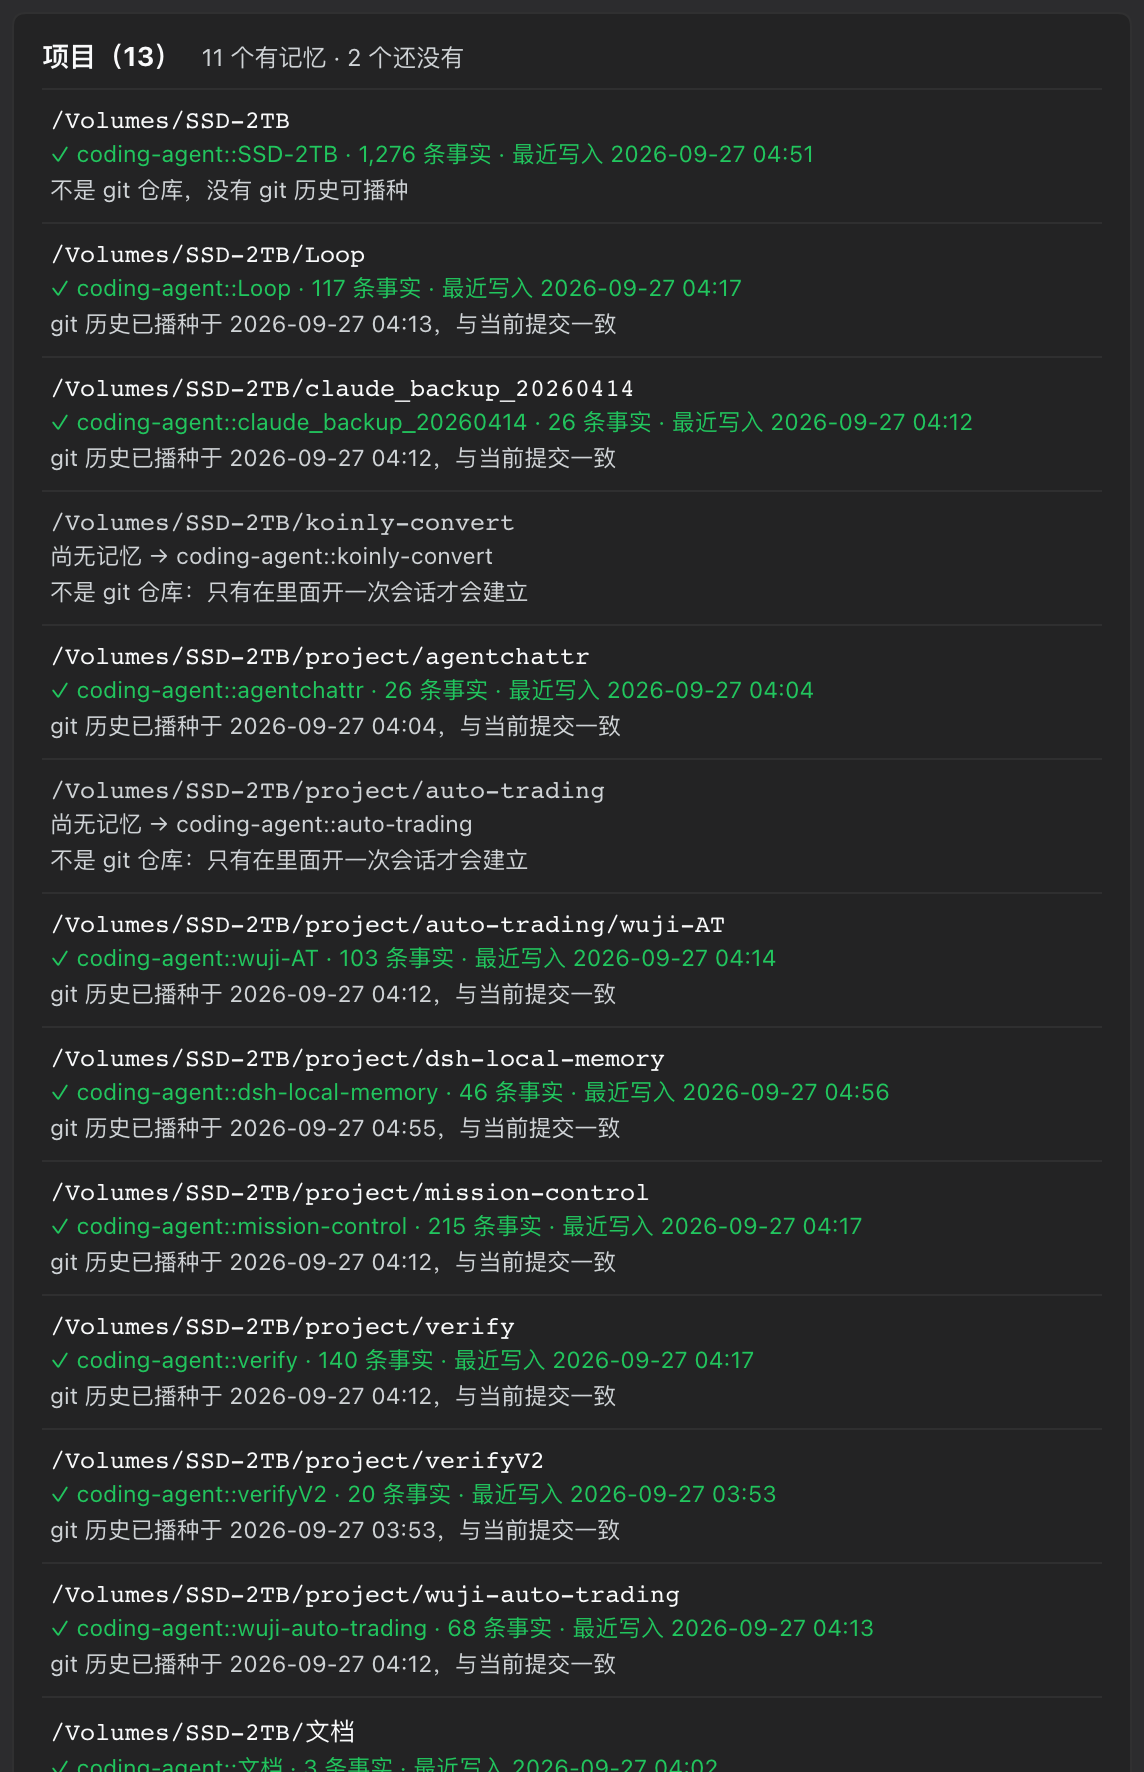
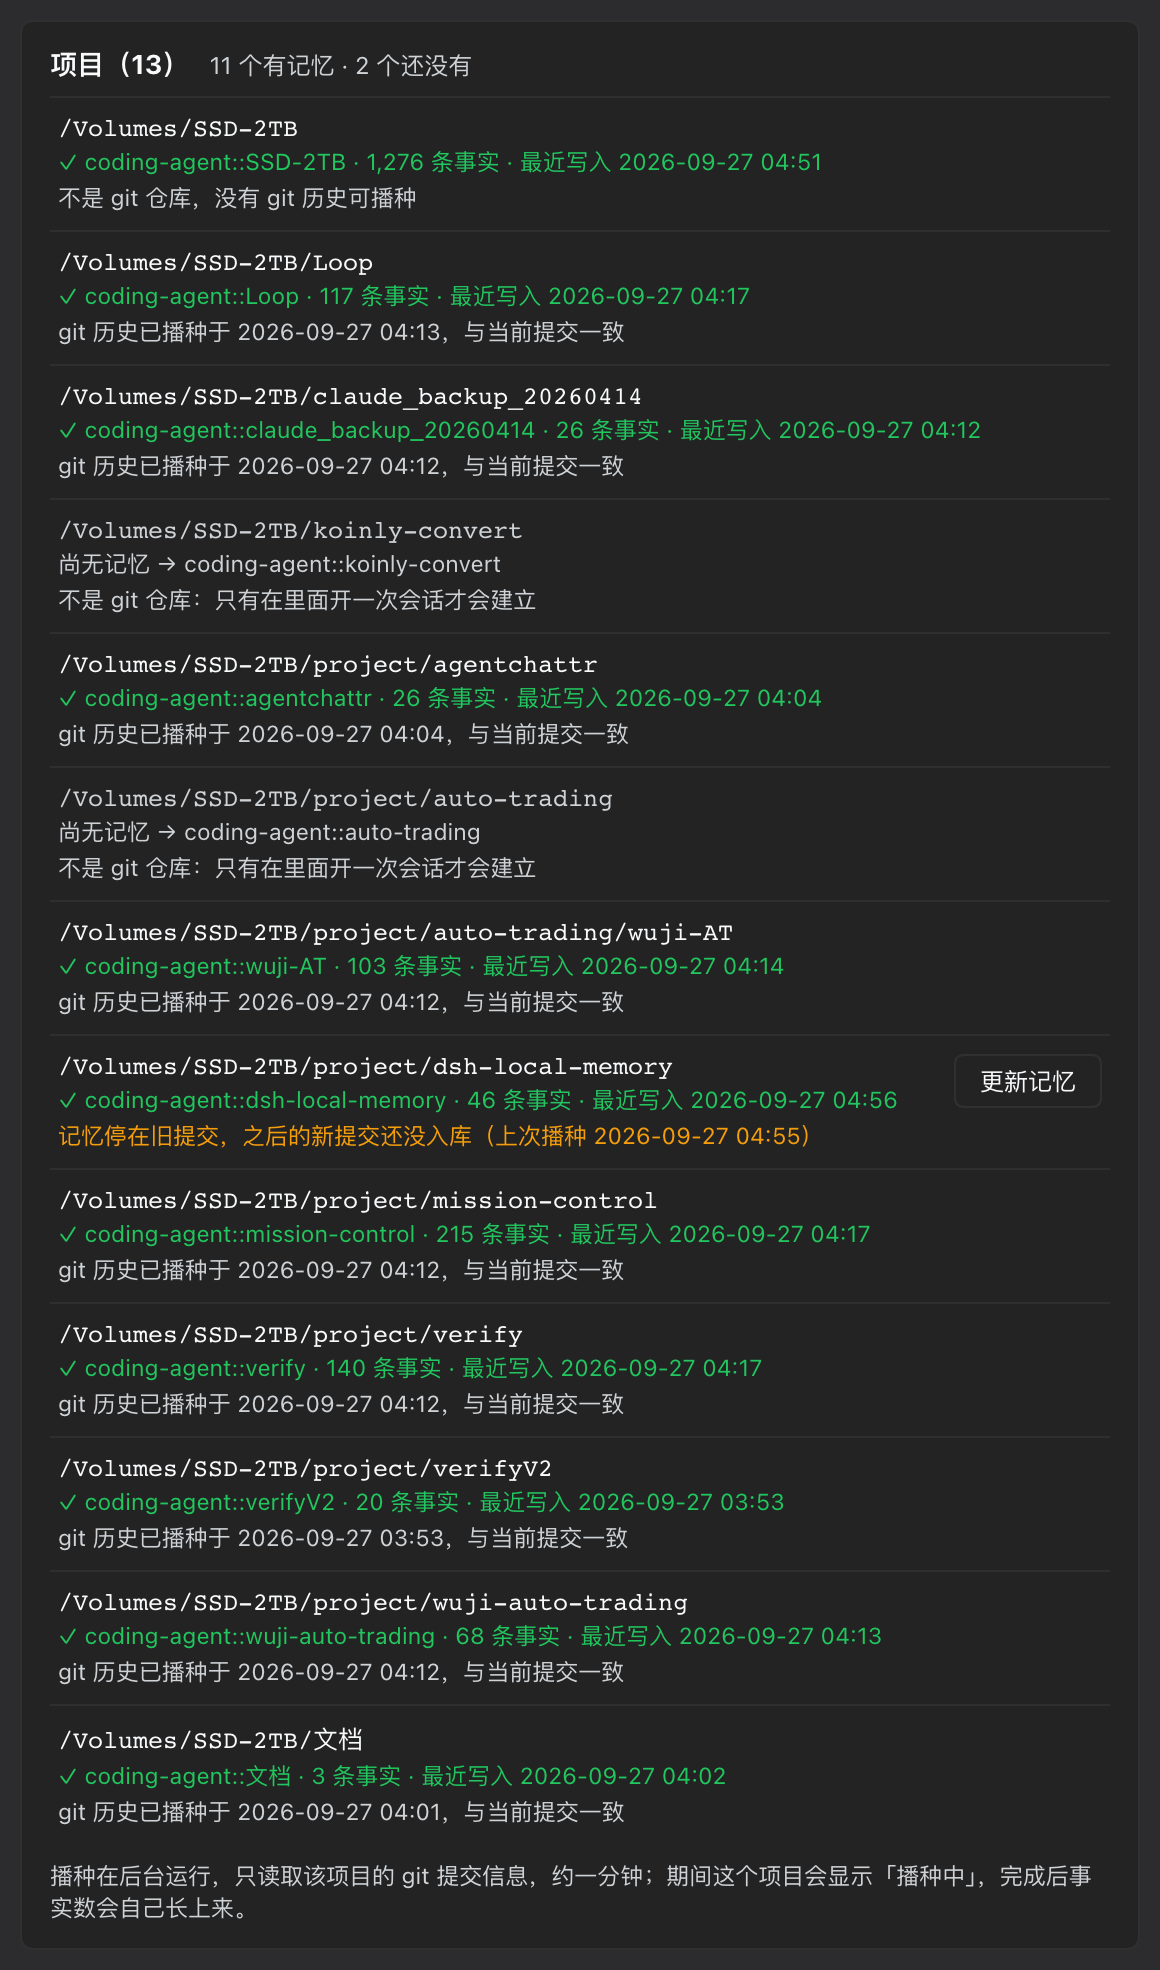
docs: 两张界面截图 + screenshots.json
市场会从仓库根的 screenshots.json 读相对路径。拆成两张而不是一张长图，
是因为一张 1280x3170 的图在列表页会被缩到看不清字。

diff --git a/README.md b/README.md
@@ -18,6 +18,18 @@ memory_seed          给还没有记忆的项目直接建库（从 git 历史播
 
 ---
 
+## 界面
+
+**设置 → 本地记忆**
+
+每个项目一个库，规模与活跃度一目了然；下面是磁盘上找到的全部项目，标出哪些有记忆、哪些还没有，能动的直接给按钮。
+
+![记忆库](docs/banks.png)
+
+![项目](docs/projects.png)
+
+---
+
 ## 它解决什么问题
 
 Hindsight 的记忆库是**平级**的——没有层级，没有"总库管理分库"这回事。所以原生只有两个选择：
